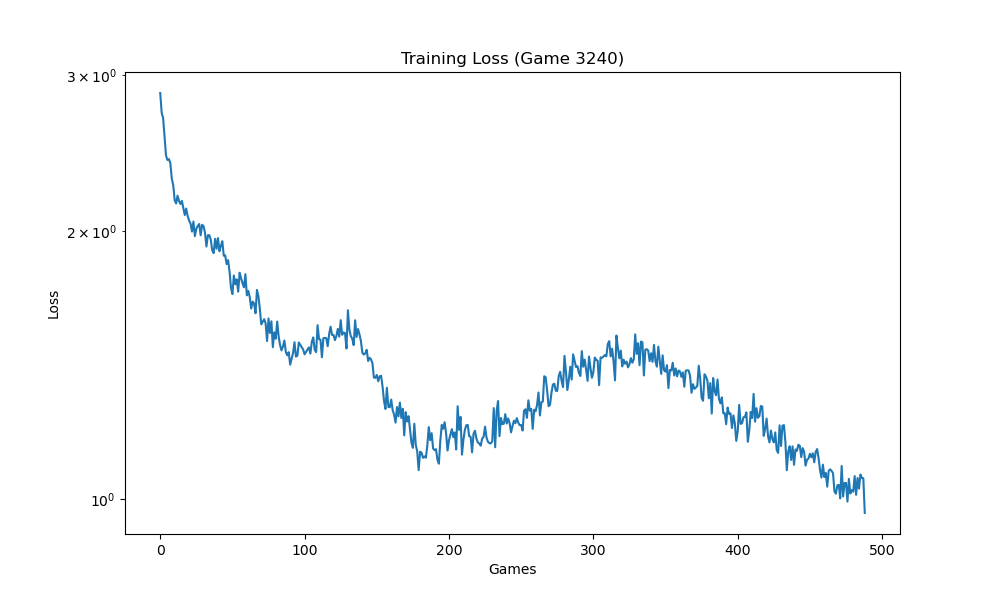
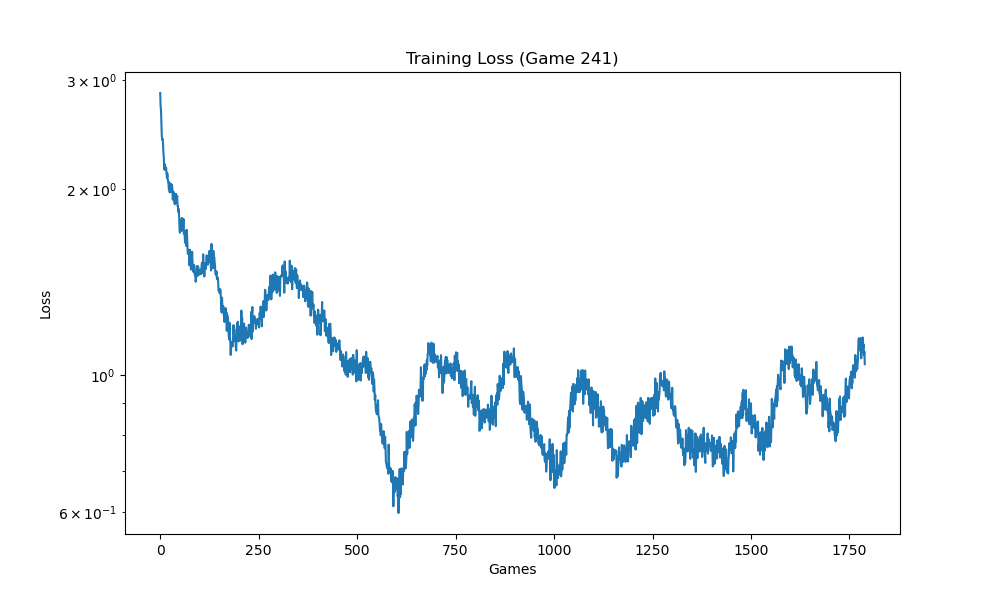
fix bug

diff --git a/connect4/connect4_train.py b/connect4/connect4_train.py
@@ -28,7 +28,7 @@ if __name__ == '__main__':
     # 训练参数
     args = {
         'mode': 'train',
-        'num_simulations': 400,
+        'num_simulations': 600,
         'c_puct': 1.5,
         'temperature': 1.0,
         
@@ -38,15 +38,15 @@ if __name__ == '__main__':
         'dirichlet_epsilon': 0.25,
         
         'buffer_size': 10000,
-        'batch_size': 128,
-        'min_buffer_size': 1000,
+        'batch_size': 512,
+        'min_buffer_size': 2000,
         
         'train_steps_per_generation': 10,
         'num_games_per_generation': 20,
         
-        'target_ReplayRatio': 6,
+        'target_ReplayRatio': 5,
         
-        'playout_cap_min_ratio': 0.2,
+        'playout_cap_min_ratio': 0.3,
         'playout_cap_exponent': 1.5,
         
         'policy_training_threshold': 0.5,
@@ -61,12 +61,7 @@ if __name__ == '__main__':
     print(f"Action Space: {game.action_space_size}")
     print(f"Input Planes: {game.num_planes}")
     print()
-    
-    # 创建AlphaZero实例
+
     alphazero = AlphaZero(game, model, optimizer, args)
-    
-    # 尝试加载之前的检查点
     alphazero.load_checkpoint()
-    
-    # 开始训练
     alphazero.learn()

diff --git a/connect4/connect4_play.py b/connect4/connect4_play.py
@@ -34,7 +34,7 @@ if __name__ == '__main__':
         'temperature': 0.1,
         'dirichlet_epsilon': 0,
         'dirichlet_alpha': 0.5,
-        'buffer_size': 2000,
+        'buffer_size': 10000,
         'file_name': 'connect4/connect4',
         'device': 'cuda'
     }
@@ -43,13 +43,9 @@ if __name__ == '__main__':
     print(f"Board Size: {game.board_height} x {game.board_width}")
     print(f"Action Space: {game.action_space_size} (columns 0-6)")
     print()
-    
-    # 创建AlphaZero实例
+
     alphazero = AlphaZero(game, model, optimizer, args)
-    
-    # 加载训练好的模型
-    if not alphazero.load_checkpoint():
-        print("Warning: No checkpoint found, using untrained model!")
+    alphazero.load_checkpoint()
     
     print()
     print("=" * 50)

diff --git a/alphazero.py b/alphazero.py
@@ -260,7 +260,7 @@ class AlphaZero:
 
         value_loss = F.mse_loss(value, value_targets)
 
-        loss = policy_loss + value_loss
+        loss = policy_loss + 2 * value_loss
         self.optimizer.zero_grad()
         loss.backward()
         self.optimizer.step()
